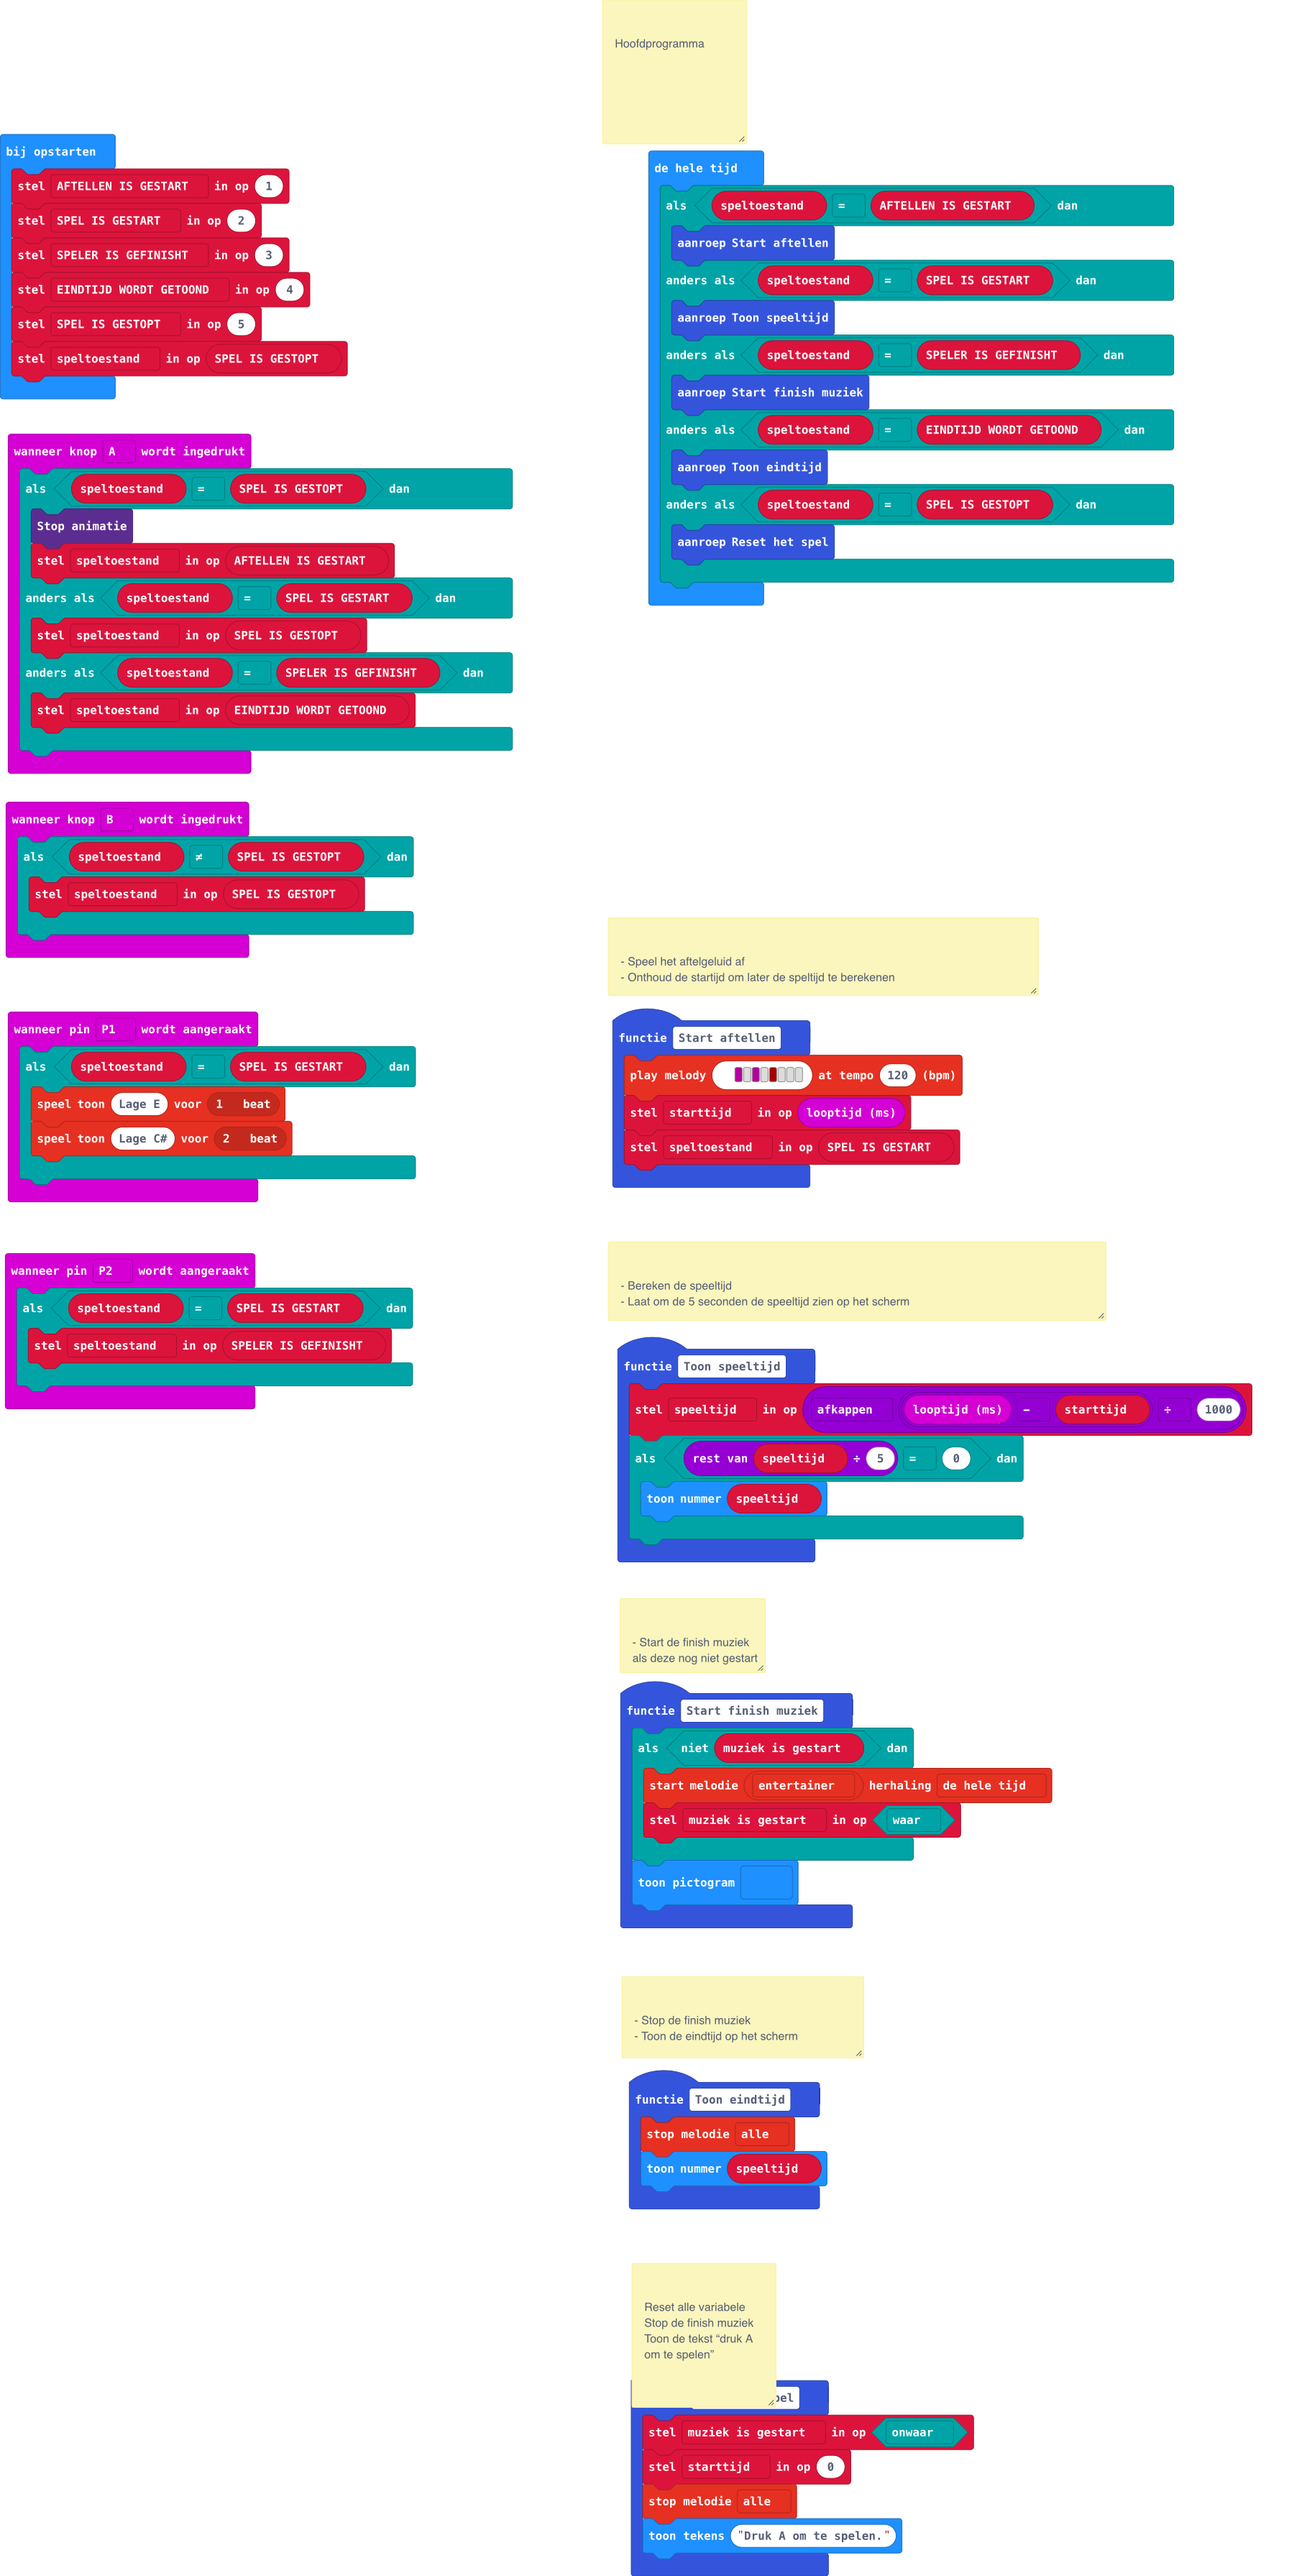
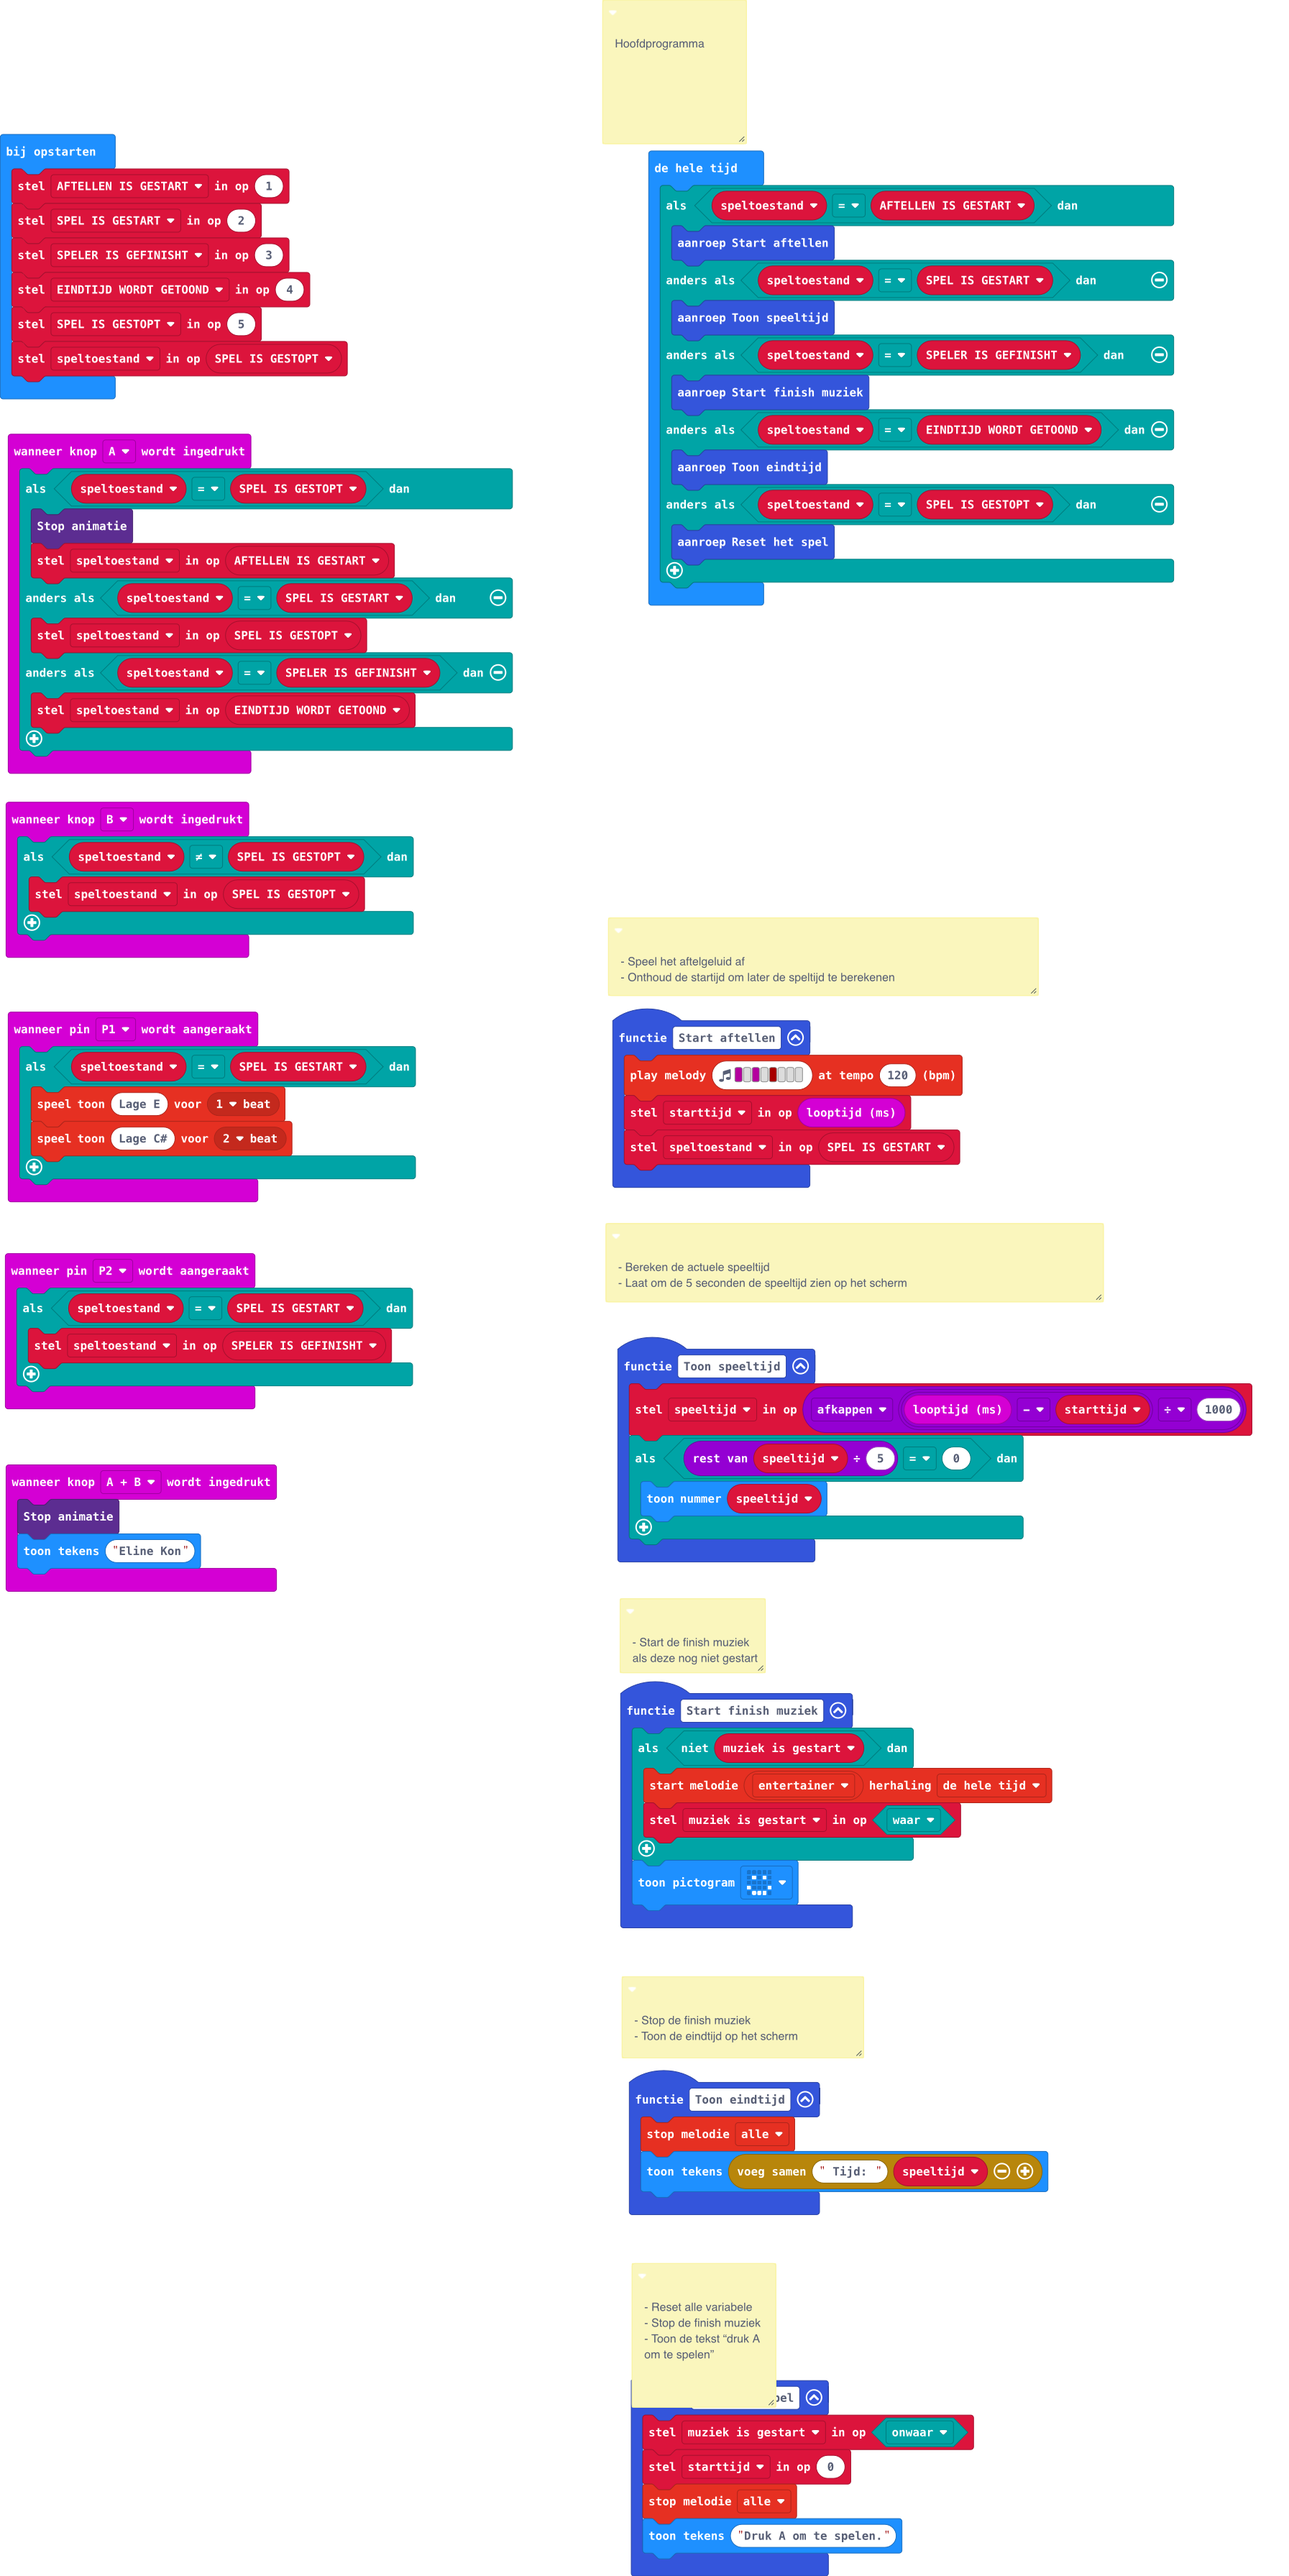
Update main.blocks, main.ts

diff --git a/main.ts b/main.ts
@@ -1,9 +1,14 @@
 /**
- * Reset alle variabele
+ * - Bereken de actuele speeltijd
  * 
- * Stop de finish muziek
+ * - Laat om de 5 seconden de speeltijd zien op het scherm
+ */
+/**
+ * - Reset alle variabele
  * 
- * Toon de tekst “druk A om te spelen”
+ * - Stop de finish muziek
+ * 
+ * - Toon de tekst “druk A om te spelen”
  */
 function Reset_het_spel () {
     muziek_is_gestart = false
@@ -38,12 +43,16 @@ function Start_aftellen () {
  */
 function Toon_eindtijd () {
     music.stopMelody(MelodyStopOptions.All)
-    basic.showNumber(speeltijd)
+    basic.showString(" Tijd: " + speeltijd)
 }
 input.onPinPressed(TouchPin.P2, function () {
     if (speltoestand == SPEL_IS_GESTART) {
         speltoestand = SPELER_IS_GEFINISHT
     }
+})
+input.onButtonPressed(Button.AB, function () {
+    led.stopAnimation()
+    basic.showString("Eline Kon")
 })
 /**
  * - Start de finish muziek als deze nog niet gestart is
@@ -68,11 +77,6 @@ input.onPinPressed(TouchPin.P1, function () {
         music.playTone(139, music.beat(BeatFraction.Double))
     }
 })
-/**
- * - Bereken de speeltijd
- * 
- * - Laat om de 5 seconden de speeltijd zien op het scherm
- */
 function Toon_speeltijd () {
     speeltijd = Math.trunc((input.runningTime() - starttijd) / 1000)
     if (speeltijd % 5 == 0) {
